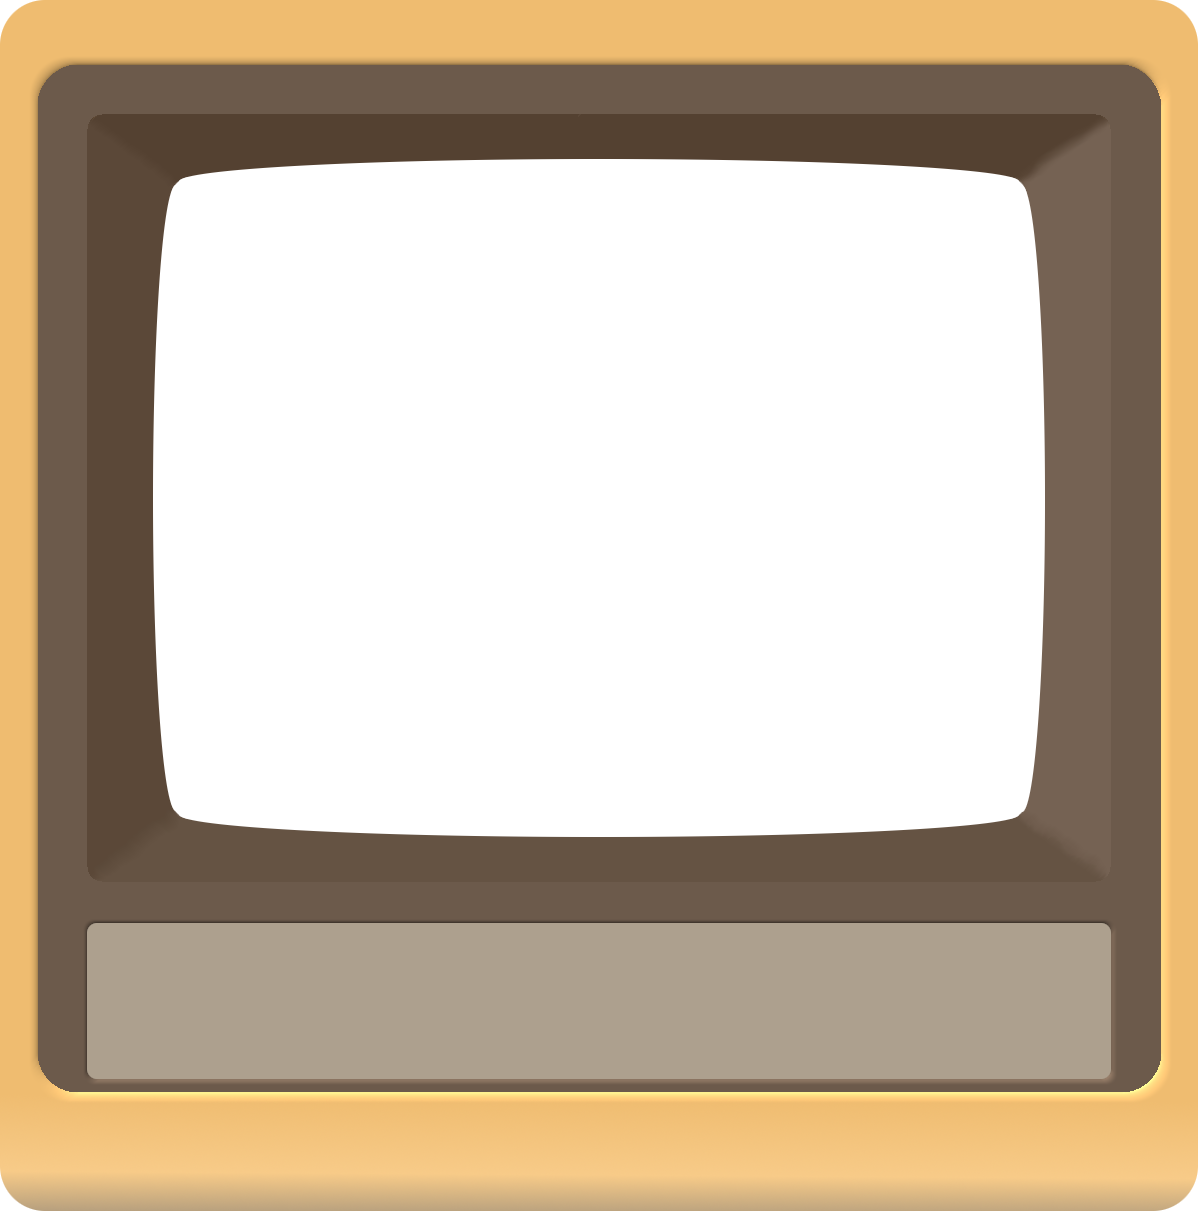
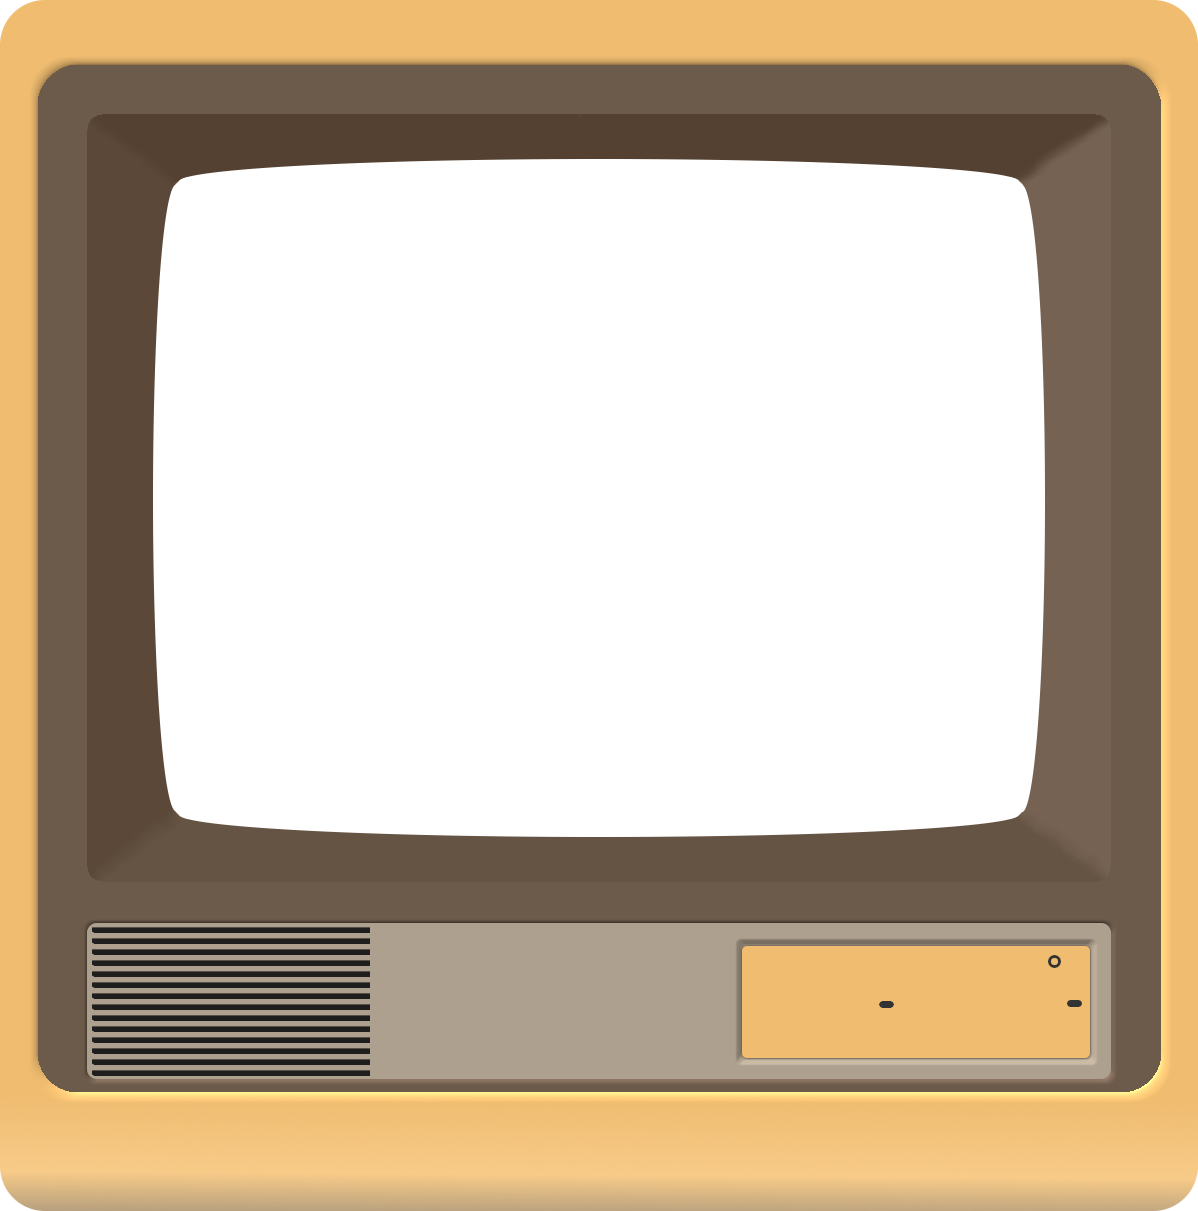
added final art for contact terminal

Changed region(s): [[0.6177, 0.7638, 0.9265, 0.886], [0.0618, 0.7638, 0.3088, 0.886]]

diff --git a/src/components/Projects/ProjectDetails.tsx b/src/components/Projects/ProjectDetails.tsx
@@ -109,22 +109,22 @@ const ProjectDetails = (props: DetailsProps) => {
                 <div
                   key={i}
                   ref={item[0]}
-                  className={`${item[1]} bg-black absolute top-0 left-0 h-full w-full px-[10%] py-[10%] text-[#ffffff] overflow-scroll scrollbar-hide rounded-[8%]`}
+                  className={`${item[1]} bg-black absolute top-0 left-0 h-full w-full px-[10%] py-[10%] text-[#ffffff] rounded-[8%]`}
                   style={{
                     textShadow: "0px 0px 1px #FFFFFF, 0px 0px 5px #FFFFFF",
                     backdropFilter: "blur(3px)",
                   }}
                 >
                   <div className="flex w-full justify-between items-center">
-                    <h1 className="text-[5vw] pb-[2%] mr-[1%]">{props.name}</h1>
-                    <div className="flex flex-row h-0 space-x-2 ml-[5%]">
-                      <div className="w-[30%]">
-                        <a href={props.repo}>
+                    <h1 className="text-[2vw] pb-[2%] mr-[1%]">{props.name}</h1>
+                    <div className="flex flex-row h-0 space-x-2 ml-[5%] mb-[5%]">
+                      <div className="w-[2vw]">
+                        <a href={props.repo} target="blank">
                           <img src={githubIcon} className="w-full" />
                         </a>
                       </div>
                       {props.url && (
-                        <div className="w-[35%]">
+                        <div className="w-[2vw]">
                           <a href={props.url} target="blank">
                             <img src={websiteLinkIcon} className="w-full" />
                           </a>
@@ -135,7 +135,7 @@ const ProjectDetails = (props: DetailsProps) => {
                   {props.description &&
                     props.description.map((p, i) => {
                       return (
-                        <p key={i} className="text-[2vw] pb-[2%]">
+                        <p key={i} className="text-[1vw] pb-[2%]">
                           {p}
                         </p>
                       );

diff --git a/src/components/Projects/index.tsx b/src/components/Projects/index.tsx
@@ -91,11 +91,11 @@ const ProjectLeft = ({ data }: { data: Project[] }) => {
             <img
               className="h-full w-full px-[4%] py-[3%]"
               src={
-                !data[currentPage].image
-                  ? "/images/project-management.jpg"
-                  : data[currentPage].image
+                data[currentPage]
+                  ? data[currentPage].image
+                  : "/images/project-management.jpg"
               }
-              alt={data[currentPage].name}
+              alt={data[currentPage] ? data[currentPage].name : "missing image"}
               draggable="false"
             />
           </motion.div>
@@ -159,7 +159,7 @@ const ProjectRight = ({ data }: { data: Project[] }) => {
                     <img src={namePlateButtonFrame} className="w-[100%]" />
                     <img
                       src={namePlateButton}
-                      className="absolute top-1/2 left-1/2 w-full -translate-x-1/2 -translate-y-1/2 cursor-pointer active:scale-95"
+                      className="absolute top-1/2 left-1/2 w-full -translate-x-1/2 -translate-y-1/2 cursor-pointer hover:scale-105 active:scale-95"
                       onClick={() => handleDetailsDisplay(true, index)}
                     />
                   </div>

diff --git a/src/output.css b/src/output.css
@@ -1014,16 +1014,16 @@ video {
   width: 25%;
 }
 
+.w-\[2vw\] {
+  width: 2vw;
+}
+
 .w-\[3\%\] {
   width: 3%;
 }
 
 .w-\[30\%\] {
   width: 30%;
-}
-
-.w-\[35\%\] {
-  width: 35%;
 }
 
 .w-\[40\%\] {
@@ -1494,12 +1494,12 @@ video {
   font-size: 1.2vw;
 }
 
-.text-\[2vw\] {
-  font-size: 2vw;
+.text-\[1vw\] {
+  font-size: 1vw;
 }
 
-.text-\[5vw\] {
-  font-size: 5vw;
+.text-\[2vw\] {
+  font-size: 2vw;
 }
 
 .leading-\[80\%\] {
@@ -1932,6 +1932,13 @@ code {
 .after\:rounded-xl::after {
   content: var(--tw-content);
   border-radius: 0.75rem;
+}
+
+.hover\:scale-105:hover {
+  --tw-scale-x: 1.05;
+  --tw-scale-y: 1.05;
+  -webkit-transform: translate(var(--tw-translate-x), var(--tw-translate-y)) rotate(var(--tw-rotate)) skewX(var(--tw-skew-x)) skewY(var(--tw-skew-y)) scaleX(var(--tw-scale-x)) scaleY(var(--tw-scale-y));
+          transform: translate(var(--tw-translate-x), var(--tw-translate-y)) rotate(var(--tw-rotate)) skewX(var(--tw-skew-x)) skewY(var(--tw-skew-y)) scaleX(var(--tw-scale-x)) scaleY(var(--tw-scale-y));
 }
 
 .active\:right-\[10\.49\%\]:active {

diff --git a/src/components/Contact/index.tsx b/src/components/Contact/index.tsx
@@ -2,7 +2,8 @@ import React, { useEffect, useState, useRef } from "react";
 import { AnimatePresence, motion } from "framer-motion";
 import TerminalDisplay from "./Terminal";
 import tFrame from "../../images/terminal_frame.png";
-import tPwr from "../../images/terminal_pwr.jpg";
+import tPwr from "../../images/terminal_pwr.png";
+import tDial from "../../images/terminal_dial.png"
 
 type ContactProps = {
   data: string;
